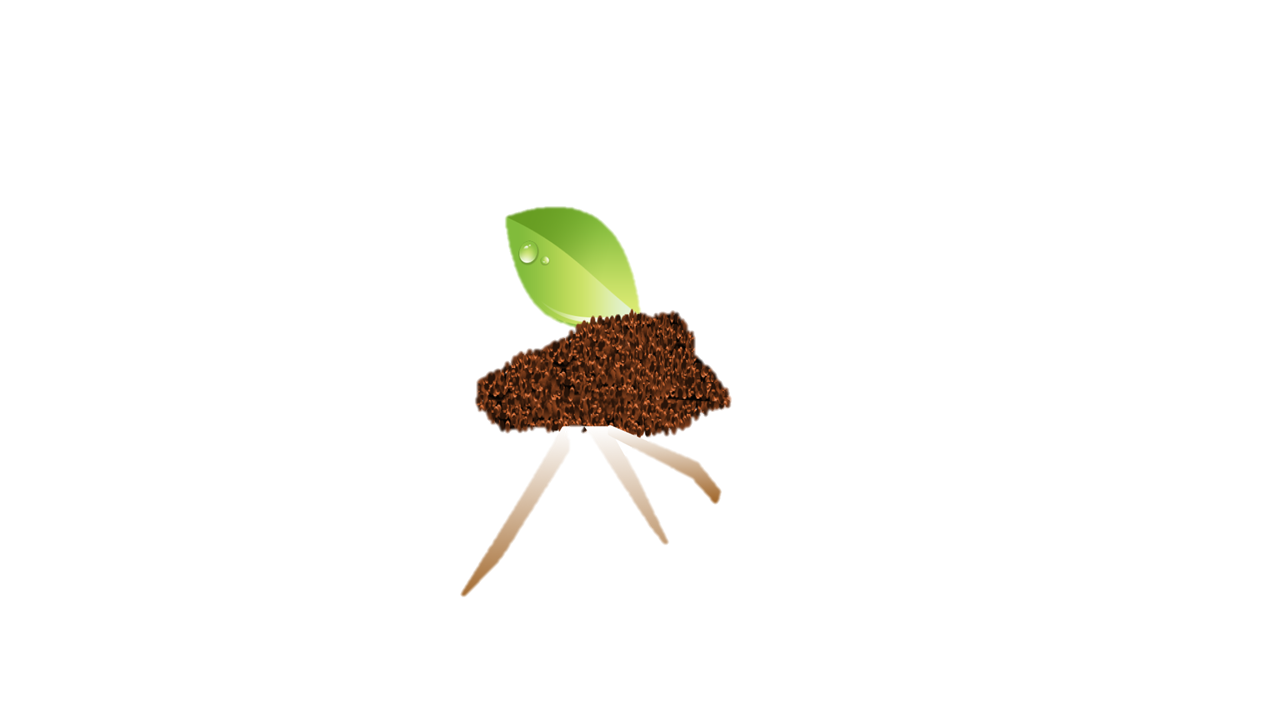
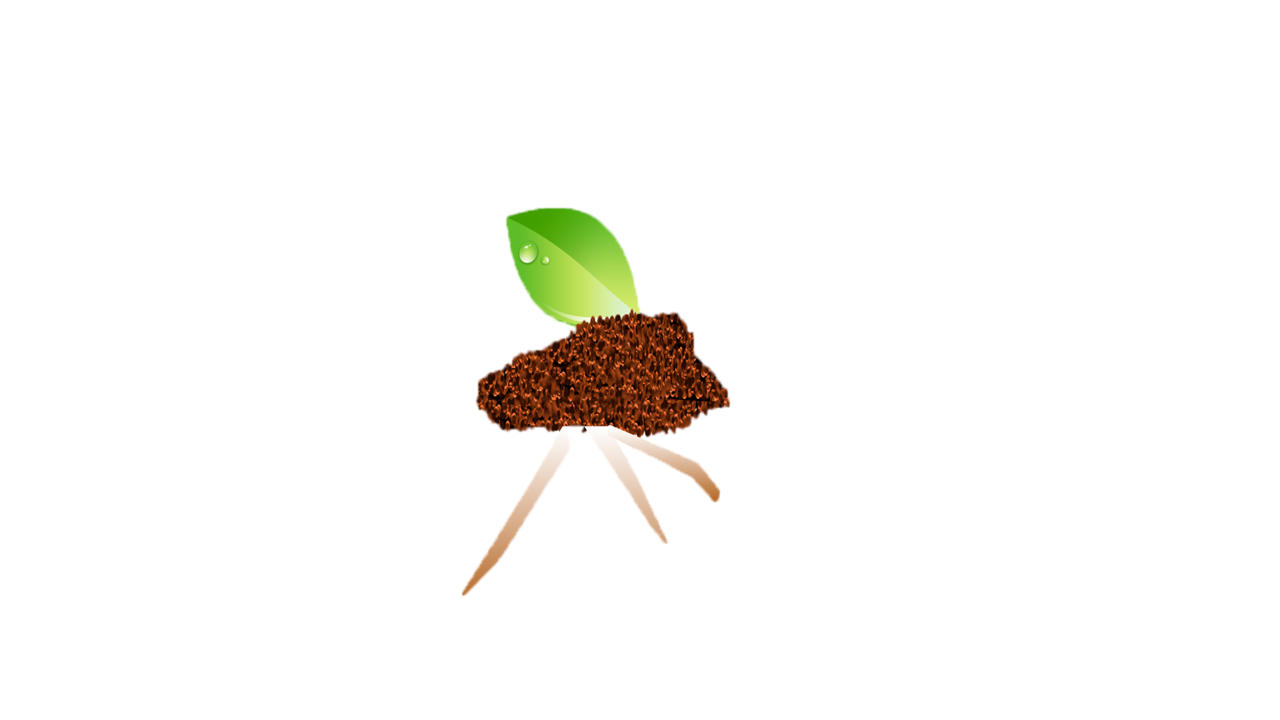
add tree

diff --git a/src/Components/Feedback.js b/src/Components/Feedback.js
@@ -1,10 +1,17 @@
 import React, {useState} from 'react';
+import {ProgressBar} from "./ProgressBar";
+import {Link} from "react-router-dom";
 
 const activeTool = {
     'border-bottom': "3px solid rgba(214,224,62, 0.9)"
 }
 
 const Feedback = () => {
+    const note =  {
+        id: 1,
+        header: "Create MVP",
+        deadline: "31.07.20",
+    };
 
     const content = [<ul>
         <li>Quality of product: 3/4</li>
@@ -20,10 +27,34 @@ const Feedback = () => {
     const [activeContent, setContent] = useState(0);
     const handleContent = content => setContent(content);
 
+    const [treeStage, setTreeStage] = useState(0);
+
+    const trees = ['https://psv4.userapi.com/c856224/u89830763/docs/d4/c3359f3c8af2/tree_1.png?extra=Qc4Yuiz1rfuVcAMOE8AMEVwpSbaWCwwYbbYY6kuOHbet147ghbskpgxOtRhJvqEHq--VGhH4VSfu75LRuz4PrZfJGj5ENg7Fi68gVYsYjid5CZS478xXFjo8dXgm2Rc3p9-qEJdTRFmlJxLWweja',
+        'https://psv4.userapi.com/c856224/u89830763/docs/d7/9247d7c03579/tree_2.png?extra=JqRJo0W0F4bnONITgDxMp3HoF4lxdtISNVatethaBUSPY3kqFXok8hXXYNbgRq1hpqoGjEH25yyyEJgOwdWyKv5ycXoqKUIMGqhdpdYUv1MzXLo3i8LWdwoVQ50eaaJYnZYaRYNlKcEZnW5urkCg',
+    'https://psv4.userapi.com/c856224/u89830763/docs/d2/efb2c2553885/tree_3.png?extra=DgvjJIpGa1Bem5NyflaJLVXyUWH3ew--aDaGjZJdc2o0S_32anx28XZHx_TQNTcFdojsneEkCqAGUIqcoED91DfHFhe65TNTd2ZuQ0Srd7cxjC2DL5WkQWNQqg3mrV_Tmr2NgYnR_AsfBB480KHn',
+        'https://psv4.userapi.com/c856224/u89830763/docs/d3/eea242e11522/tree_4.png?extra=_6_YwPAbxwy3bEqGsiQblcPewHU8bOmpyPpHz4nPQerJ9fdc1yLfmFSTydSyIOzpn7TS51FvQwxVFgNoAEBMTqnS1dyeFF4xdHKmoR7reIkZYT-0Rs-W7M8UAdNtd37KDK4E5sgZUw_WTiZe7L9k',
+        'https://psv4.userapi.com/c856224/u89830763/docs/d1/4360d2af7153/tree_6.png?extra=qFNBBMthTrt27CrTkDAXdCtfqj0oLMFAjhJLXeVPjxtA6Iq5qJOUZfECDttsmtWib6zcwVotVtU6bTDBxQCB94TAxJy4N48P32Wt0r_lomQAR-DTkLbzntrb_YW3z6wQDKXs0ksRChiUY93379pc',
+        'https://psv4.userapi.com/c856224/u89830763/docs/d11/675e13889e79/tree_7.png?extra=Sf2-yKijYWxHs-5nnOv2KTrMw1IZ-MHBHNZ2-3nRV0aHte4tE15d0qIHsBTUWylKbgmraA82uV5sFaU62V5VmpA1Weth2TEQsVBvhqj8OBeWBgeiJSULtDWvSc-WR2_jzQOvbNkfqeHtXmnUa7bf',
+        'https://psv4.userapi.com/c856224/u89830763/docs/d17/7b6e98204c9a/tree_5.png?extra=g1Ycn9hQzOT-Ufabgn1c-VurVhNmWPE7DWGn2et3BmW7IYczXFhYNat_4c1dcm-LT-tDxZCJDIWGVVYgbdGYi5UnfIdMtiIPGf_EPhbxYyhmRGCkzdC8o0yI5N0b5SzESN0XFWwzGR8q13nA-YGQ',
+    ];
+
     return (
         <div className="feedback_tree_box">
             <div className="feedback_tree_tools">
-                <img style={{marginLeft: "25px"}} src="https://sun1-99.userapi.com/aGKph1Of4NCV7LlmPKqWnOHbYzfycXj9qy3Yww/rwJ5Oqec7Cs.jpg"/>
+                <div className="tree_stage">
+                <img className="tree_img" style={{marginLeft: "25px"}} src={trees[treeStage]}/>
+                <div className="note_big">
+                </div>
+                    <ProgressBar id={note.id} percents={15} setTree={setTreeStage}/>
+                    <div className="note_info">
+                        <h3 className="note_header">{note.header}</h3>
+                        <div className="note_service">
+                            <h3 className="note_func">Progress stat</h3>
+                            <h3 className="note_func">Steps</h3>
+                        </div>
+                        <h3 className="note_deadline">{note.deadline}</h3>
+                    </div>
+                </div>
                 <ul className="feedback_tree_tools_menu">
                     <li onClick={() => handleContent(0)} style={activeContent === 0 ? activeTool : null}>Marks</li>
                     <li onClick={() => handleContent(1)} style={activeContent === 1 ? activeTool : null}>Comments</li>

diff --git a/src/Components/ProgressBar.js b/src/Components/ProgressBar.js
@@ -1,4 +1,4 @@
-import React from 'react';
+import React, {useState} from 'react';
 
 const randomProgress = (id) => {
     const randomize = () => {
@@ -8,22 +8,80 @@ const randomProgress = (id) => {
     //(0,112,60) 0%, rgb(125,194,68)
     let percents = randomize();
     let progress = document.getElementById(id);
-    console.log(progress);
     progress.style.background = !percents ? "transparent" : "rgb(" + (125 - Math.round(125 * percents / 100)) +", " + (194 - Math.round(82 * percents / 100)) + "," + (68 - Math.round(8 * percents / 100)) + ")";
     progress.style.height = 110 + percents + "px";
     let percents_view = document.getElementById(id + '_percents');
     percents_view.innerText = percents + "%";
 };
 
-const ProgressBar = ({id}) => {
+const notRandomProgress = (id, percents) => {
+    let progress = document.getElementById(id);
+    progress.style.background = !percents ? "transparent" : "rgb(" + (125 - Math.round(125 * percents / 100)) +", " + (194 - Math.round(82 * percents / 100)) + "," + (68 - Math.round(8 * percents / 100)) + ")";
+    progress.style.height = 110 + percents + "px";
+    let percents_view = document.getElementById(id + '_percents');
+    percents_view.innerText = percents + "%";
+};
+
+const ProgressBar = ({id, percents = -1, setTree}) => {
+
+    const [percent, setPercent] = useState(percents);
+
+    const handleClick = () => {
+        if (percent === 0) {
+            setTree(0);
+            setPercent(percent + 15);
+            return ;
+        }
+        if (percent === 15) {
+            setPercent(percent + 25);
+            setTree(1);
+            return ;
+        }
+        if (percent === 40) {
+            setPercent(percent + 25);
+            setTree(2);
+            return ;
+        }
+        if (percent === 65) {
+            setPercent(percent + 15);
+            setTree(3);
+            return ;
+        }
+        if (percent === 80) {
+            setPercent(percent + 10);
+            setTree(4);
+            return ;
+        }
+        if (percent === 90) {
+            setPercent(percent + 10);
+            setTree(5);
+            return ;
+        }
+        if (percent === 100) {
+            setPercent(0);
+            setTree(6);
+            return ;
+        }
+    }
+
+
     return (
         <div className="circle-out">
             <div className="progress" id={id}/>
-            <div
+            {setTree ?  <div
                 className="circle-in"
-                onMouseOver={() => randomProgress(id)}>
+                onClick={() => {
+                        notRandomProgress(id, percent);
+                        handleClick();
+                }}>
                 <p id={id + "_percents"}>0%</p>
-            </div>
+            </div> :
+                <div
+                    className="circle-in"
+                    onMouseOver={() => randomProgress(id)}>
+                    <p id={id + "_percents"}>0%</p>
+                </div> }
+
         </div>
     );
 };

diff --git a/src/Style/Style.css b/src/Style/Style.css
@@ -241,3 +241,14 @@ a, a:visited{
 .worker:hover {
     border: 3px solid rgba(214,224,62, 0.9);
 }
+
+.tree_stage {
+    display: flex;
+    flex-direction: row;
+
+}
+
+.tree_img {
+    margin-left: 15px;
+    width: 500px;
+}
